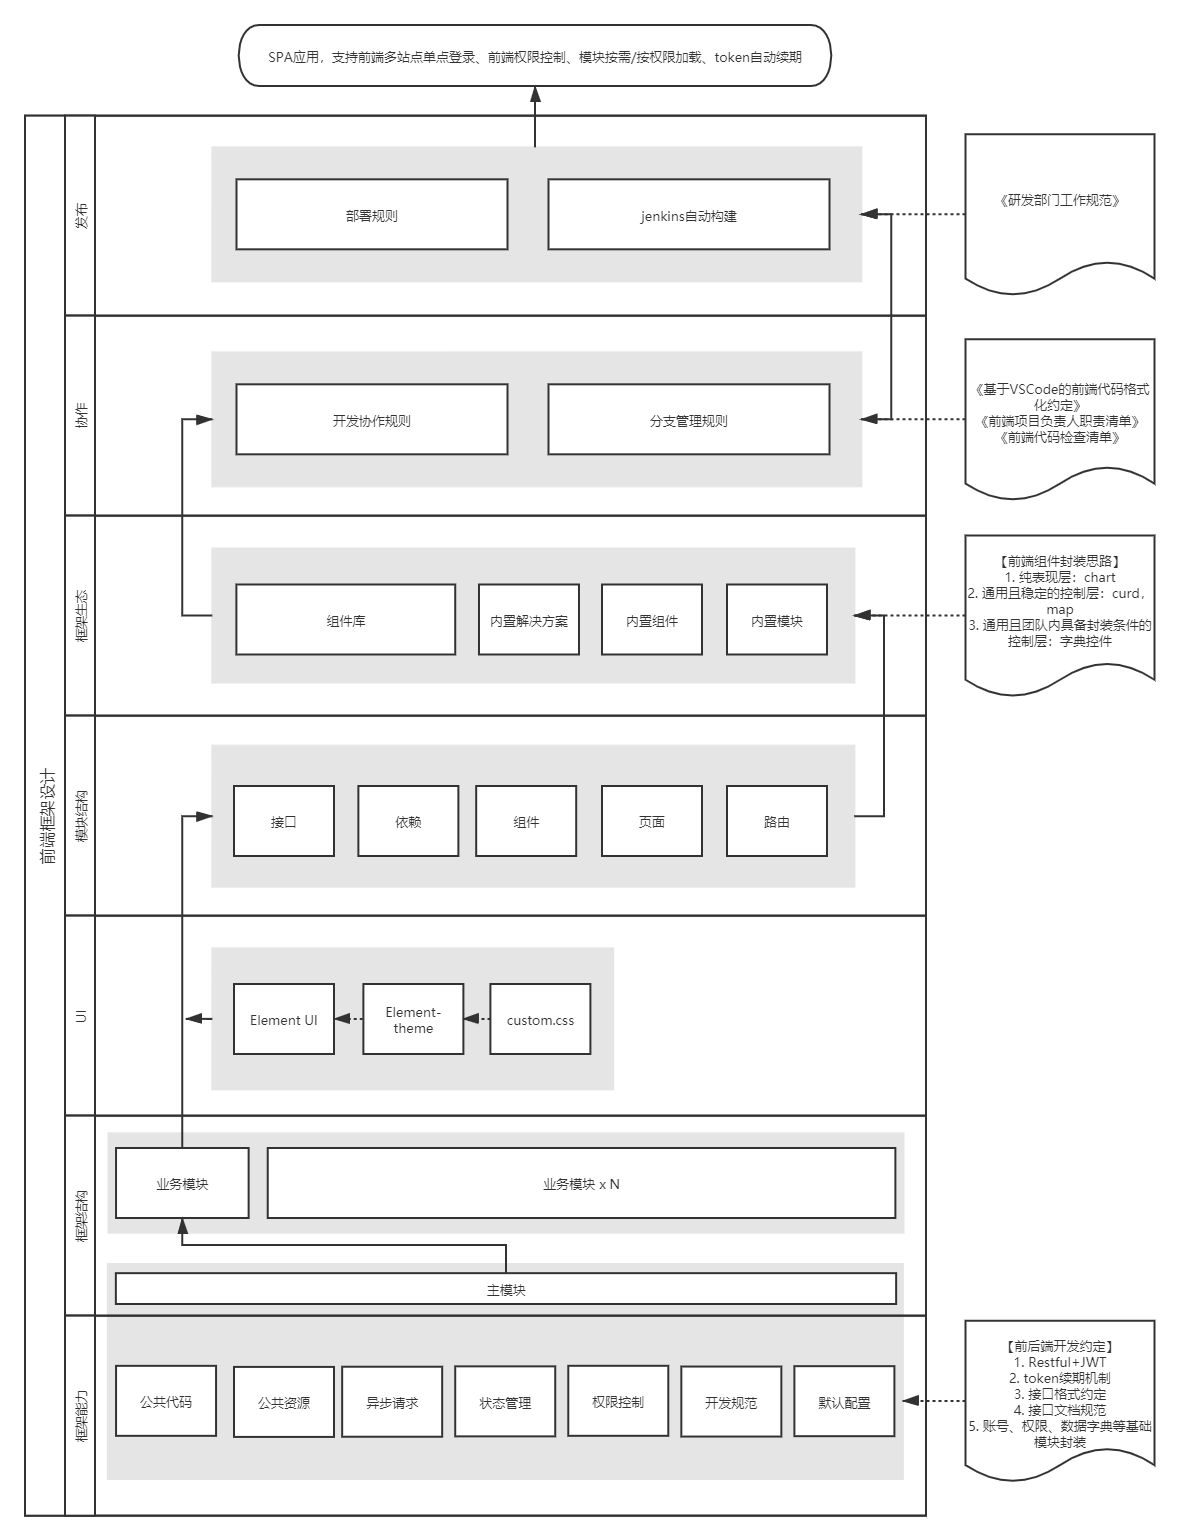
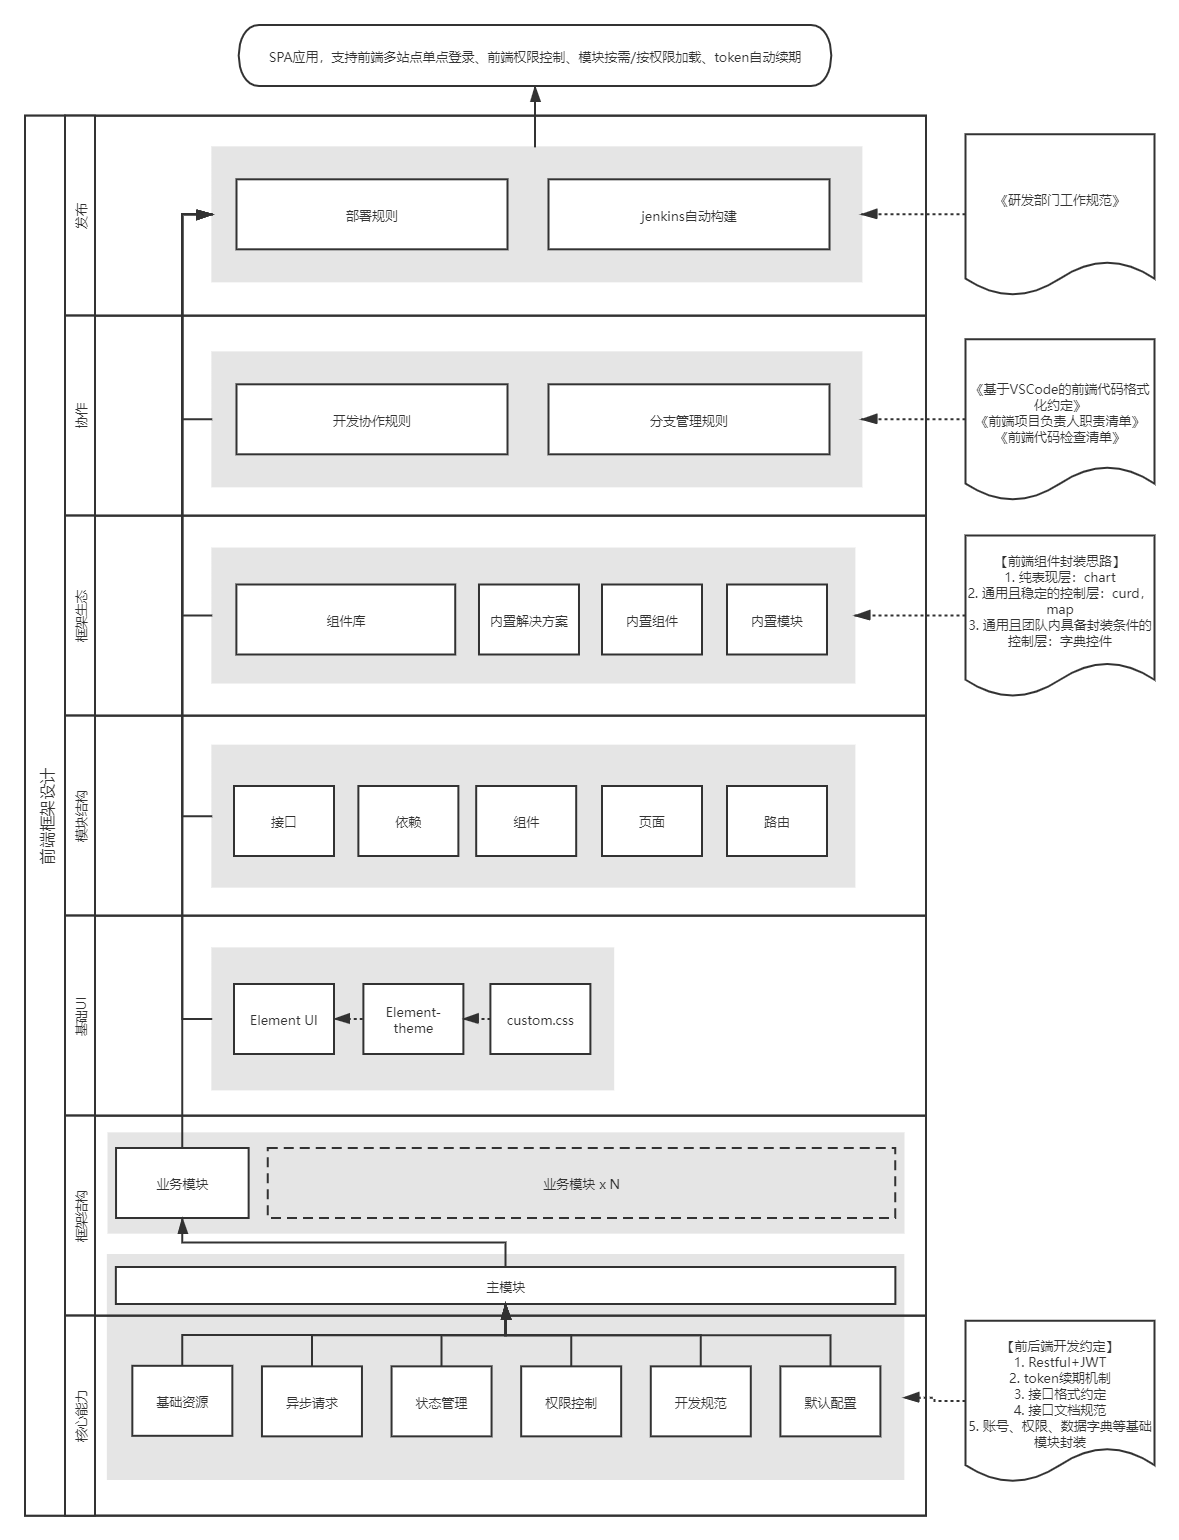
update

diff --git a/src/.vuepress/config.js b/src/.vuepress/config.js
@@ -1,6 +1,6 @@
 module.exports = {
   title: 'CuttingMat: Vue开发框架',
-  description: '面向大中型项目的Vue开发框架，助你的前端项目一臂之力',
+  description: '低成本提高前端项目质量底线，助你的Vue项目一臂之力',
   locales: {
     '/': {
       lang: 'zh-CN'
@@ -67,7 +67,6 @@ module.exports = {
           children: [
             '/guide/',                    // cutting mat
             '/guide/getting-started',     // 快速上手
-            '/guide/framework',           // 框架设计
             '/guide/framework-structure', // 目录结构
             '/guide/framework-code'       // 代码结构
           ]

diff --git a/src/guide/framework-structure.md b/src/guide/framework-structure.md
@@ -1,22 +1,24 @@
 # 目录结构
 
-目录结构是框架组织思路的体现，是非常重要的显性特征，往往会直接决定开发者的第一印象，但目录结构设计的成功与否，真正决定性的因素是其设计目标是否解决了开发过程中的组织痛点。
+目录结构是框架重要的显性特征，是项目组织思路的体现。是否解决开发过程中的组织问题，是框架目录结构设计成功与否的判断标准。
 
-CuttingMat的目录结构是为实现项目**按业务模块拆分**而设计的。
+CuttingMat的目录结构是为多人、多模块协同开发场景而设计的，用于实现前端项目**按业务模块拆分**。
 
-## 模块拆分思路
+## 设计思路
 
-经典Vue项目的`src/`目录简单的按资源类型拆分出了`components/`、`views/`、`assets/`这些文件夹，这种结构在大型项目中缺点明显，随着持续开发很容易产生大量的路由、`vue`文件、接口定义和静态资源，让这些文件夹规模剧增，给团队协作和代码组织带来极大挑战，因此大项目首先需要实现目录结构按业务模块拆分。
+经典Vue项目的`src/`目录简单的按资源类型拆分成`components/`、`views/`、`assets/`这些文件夹，这种结构在多模块并行的项目中缺点明显，随着持续开发很容易产生文件数量巨大的文件夹，开发过程经常要在这些大文件夹间切换，并在其中找到自己需要的文件，非常浪费时间而且容易犯错，因此多模块项目首先需要实现顶层目录按模块拆分。
 
-具体思路是，项目以“业务模块”为颗粒度拆分为多个模块文件夹，模块文件夹里包含开发所需的路由、页面、组件、静态资源等等。当开发一个业务模块时，开发者的注意力可以始终集中在模块文件夹内，只有涉及外部依赖时，才会接触到模块外文件。
+具体思路是，`src/`目录按“业务模块”拆分为多个模块文件夹，模块文件夹包含各自独立的路由、页面、组件、静态资源等，业务模块之间原则上互相隔离。开发一个业务模块时，开发者的注意力可以始终集中在模块文件夹内，只有涉及外部依赖时，才会接触到模块外的文件。
 
-模块间相互独立，甚至可以做到完全隔离，但模块最终要融合到项目整体中去，这就需要模块有一个明确、规则的对外表达，告诉别人我做了什么。路由可以完美充当这个角色，一个模块的路由就是一个模块的所有功能体现，模块的合并就是路由的合并。
+模块独立能很大程度上减少文件管理压力，解决开发关注度不集中问题，但模块最终要合并到项目整体中去才能运行，这就需要业务模块有一个明确的、规则的对外表达，告诉别人我做了什么。路由可以完美充当这个角色，一个模块的路由就是一个模块所有功能的体现，路由的合并就是模块的合并。
 
-以`system/`模块为例，这个模块的路由放在文件夹根目录的`system/index.js`里：
+因此很容易想到`主模块 + 业务模块 * N`这样一个项目结构，各个模块的路由在项目启动时都合并到主模块的路由文件中。这个结构除了实现多模块合并，还可以将主模块做为项目入口，实现一些项目级的公共逻辑或顶层页面框架。
+
+以`system/`模块为例，这个模块主要实现系统设置相关功能，它的路由文件是`system/index.js`：
 
 ``` javascript
 /**
- * 模块路由
+ * 系统设置模块路由
 */
 export default [{
     path: '/system',
@@ -49,7 +51,7 @@ export default [{
 }]
 ```
 
-就是输出了一段普通的路由，那怎样将他们合并到项目整体中呢，在主模块路由里（`@/main/index.js`）做路由合并就可以了：
+要将这个模块合并到主模块中，只要在主模块路由文件（`@/main/index.js`）引入并做为子路由数据合并就可以了：
 
 ``` javascript
 /**
@@ -71,37 +73,40 @@ export default [{
 
 ```
 
-可以看到主模块路由掌握着首页(`/`)路由，只要将其他模块路由作为子路由合并进来，模块就会被加载。这样一来，主模块路由就相当于项目的模块注册表，可以按需的某个模块注册到项目中来。
+可以看到主模块掌握着首页(`/`)路由，只要将业务模块作为子路由合并进来，业务模块就会被加载。这样一来，主模块路由就相当于项目的模块注册表，可以按需将某个模块注册到项目中来。
 
 基于以上思路，很容易实现按业务模块拆分的文件组织方式，在多人协同项目中可以更好的开发解耦，避免代码冲突，配合git分支策略也很容易实现业务模块分批提测、分批上线。
 
-## 整体目录结构
+## 具体实现
 
-框架的目录结构如下所示，可以看到`src/`里除了`main.js`之外就是一个个的文件夹，每个模块的代码、资源全部集中在一个文件夹内，各模块的开发关注点完全分离了：
+**框架整体目录结构**如下所示，可以看到`src/`里全部是一个个独立的模块文件夹（除了`/core`），每个模块的代码、资源全部集中在一个文件夹内，各模块的开发关注点完全分离了：
 
-``` bash
+``` js
+/**
+ * 框架整体目录结构
+ * */ 
 cutting-mat-project/
     |--public/ 
     |--src/
     |   |--__template/                  // 模块模板
-    |   |--core/                        // 框架文件
+    |   |--core/                        // 框架文件(非业务模块)
     |   |--main/                        // 主模块
     |   |--system/                      // 系统管理模块（内置业务模块）
-    |   |--user/                        // 个人中心模块（内置业务模块）
-    |   `--main.js                      // 入口文件
+    |   `--user/                        // 个人中心模块（内置业务模块）
     |--.browserslistrc              // 兼容性配置
     |--.eslintrc                    // 代码检查配置
     |--.gitignore                   // git忽略文件配置
     |--babel.config.js              // babel配置
     |--package.json                 // 项目描述文件
-    `--vue.config.js                // vue-cli配置
+    `--vue.config.js                // 项目配置文件
 ```
 
-## 模块目录结构
+**业务模块内部目录结构**实际上可以开发者随意发挥，只要保留模块路由文件`index.js`就可以了。但实际上为了便于模块间的资源复用，模块内部最好也统一目录结构，我们约定的模块目录结构如下：
 
-每个模块的内部目录结构实际上可以开发者随意发挥，只要保留模块路由文件`index.js`就可以了，但实际上为了便于模块间的资源引用，模块间最好统一目录结构，我们约定的模块结构如下：
-
-``` bash
+``` js
+/**
+ * 业务模块内部目录结构
+ * */ 
 cutting-mat-project/
     |--src/
         |--[Moudle Folder]/
@@ -121,30 +126,30 @@ cutting-mat-project/
             `--index.js                         // 模块路由
 ```
 
-## 框架核心目录结构
+与模块文件夹并列的`core/`文件夹，顾名思义这里是框架的核心功能实现，主要对应[框架设计](./framework)中的**核心层**及**UI层**。它目录结构：
 
-项目里还有一个`core/`文件夹，顾名思义这里是框架的核心功能实现，主要对应[【框架设计】](./framework)中的**核心层**及**通用UI层**。它目录结构：
-
-``` bash
+``` js
+/**
+ * 框架核心文件夹目录结构
+ * */ 
 cutting-mat-project/
     |--src/
         |--core/
-            |--element-theme/                   // Element主题
+            |--element-theme/                   // Element主题定制相关
             |   |--fonts/
-            |   |--img/
+            |   |--img/                         // 叠加自定义样式的依赖图片
             |   |--config.json
-            |   |--custom.css                   // 针对ElementUI的自定义样式
+            |   |--custom.css                   // 叠加自定义样式
             |   `--index.css
             |--font/                            // iconfont字体图标（global.css依赖）
-            |   |--img/ 
-            |   |--style.css 
-            |   `--util.js 
-            |--api.js                           // 全局请求配置
-            |--App.vue                          // vue根组件
+            |--widget-support/                  // 组件库依赖文件
+            |--App.vue                          // 项目根组件
             |--global.css                       // 全局样式（App.vue依赖）
-            |--index.js                         // 框架工具类
-            |--register.js                      // vue全局资源注册器
+            |--http.js                          // 全局请求配置
+            |--index.js                         // 核心功能（默认输出util.js）
+            |--main.js                          // 构建入口文件
+            |--register.js                      // 全局资源注册器
             |--router.js                        // 全局路由守卫
-            |--store.js                         // 简单store模式的状态管理
-            `--widget-amount-report.js          // 组件上报（组件库依赖）
+            |--store.js                         // 内置状态管理模块
+            `--util.js                          // 内置工具类
 ```

diff --git a/src/guide/README.md b/src/guide/README.md
@@ -1,38 +1,51 @@
 # CuttingMat
 
-CuttingMat 是基于 Vue2 的项目脚手架。
-
 ## 定位
 
-与通用UI库或组件库不同，CuttingMat希望在UI层的下层实现一个面向定制化场景的核心类库，在UI层的上层实现一个封装层，最终依托核心能力、通用UI、业务封装三层叠加，加速业务层的开发效率。
+CuttingMat（切割垫板）是基于Vue2.x的前端开发框架，与通用UI库（例如Element）不同，框架提供更底层、更全面的全链路前端开发服务。
 
-并且，CuttingMat还全程整合整个开发流程，对代码管理、质量管理、发布流程都做了默认支持，力求最大化的提升前端项目交付效率。
+CuttingMat的设计目标是用相对低的成本，提供相对高前端项目质量底线，解决初创前端团队普遍存在的开发质量参差不齐、代码架构杂乱无章等问题。
 
-## 特性
+## 框架设计
 
-- **稳定可靠**
+在相当多面向定制的前端团队中，直接基于Element开始一个前端项目仍然是惯常做法，前期的基础功能规划和代码组织设计往往比较薄弱。
 
-都是你最熟悉的技术栈：Vue2.x、Vue-Router、Axios、Element-UI
+前期工作如果没有质量保证，随着项目的深入开发以及开发者人数的增加，到了开发中期会出现很多普遍性问题。比如代码组织混乱、资源引用混乱、协作者二次造轮子、项目整体代码冗余、性能低下等等。这些问题都会二次加速前端项目的腐烂，后期会越来越难以扩展和维护。
 
-- **面向定制**
+应对这种情况，需要在UI层之下做好底层工具支持和代码组织设计；在UI层之上做好常用业务封装，依托底层、UI、封装三层叠加，加速上层业务开发效率。
 
-为定制型前端项目，提供最容易上手的项目模板、最容易扩展的代码组织、最容易使用的工具能力
+因此，CuttingMat将前端项目自底向上分为四层：核心层、UI层、封装层、业务层。
 
-- **简单灵活**
+### 核心层
 
-提供场景支持，而不是提供业务实现，保证开箱即用，而不是~~开箱先删~~
+主要输出两种能力：工具能力和组织能力，对应前端框架的核心功能、目录结构、代码结构。
 
-- **兼收并蓄**
+具体落实框架核心层时，除了做好前端核心能力的实现，还有很重要且容易被忽视的一大块内容是面向整个研发团队做全流程的支持和资源整合，比如代码管理、质量管理、发布流程等都可以跟前端框架做密切配合；面对后端团队可以做好前后端分离的相关约定、通用方案的框架级整合、基础功能模块的框架级配合等等，不能单独一方唱独角戏，要让前后端研发团队真正做到通力合作。
 
-无所不包，又不拘一格，承载开发、协同、联调、部署全开发流程
+### UI层
 
-- **专注高效**
+理论上可以做到可插拔，但目前的Vue生态并没有太多优秀的三方UI，因此CuttingMat直接基于Element-UI开发。
 
-每一个框架能力都历经真实项目迭代，将为你提供最得力的助攻
+对UI组件库的诉求始终是两点，组件够用和主题定制。在定制化项目中对组件库做样式自定义是大概率事件，所以前端框架应该对组件库的主题定制提供支持。除此之外基础组件够用就好，体积不宜过大。
 
-- **以终为始**
+### 封装层
 
-保持开放，保持迭代
+这一层是对UI层的延申，是否需要这一层视业务情况而定，实践中通常体现为框架内置组件、内置模块、通用场景解决方案、内部组件库等。
+
+CuttingMat重点面向定制项目，所以框架只内置少量业务无关的组件，更多与业务关系紧密的功能，均以组件库的形式做封装；
+
+### 业务层
+
+就是基于以上三层对业务逻辑的具体实现，以上三层是否有价值就体现在能否让业务层开发提效降本。
+
+综上，框架整体的设计思路如下：
+
+![架构图](./img/CuttingMat.png)
+（右键在新标签中打开，查看高清大图）
+
+::: tip 目录结构
+前往[目录结构](./framework-structure)了解更多
+:::
 
 ## 社区
 

diff --git a/src/README.md b/src/README.md
@@ -2,23 +2,23 @@
 home: true
 heroImage: /logo.png
 heroText: CuttingMat
-tagline: 面向大中型项目的Vue开发框架，助你的前端项目一臂之力
+tagline: 低成本，高底线，助你的Vue项目一臂之力
 actionText: 开始使用 →
 actionLink: /guide/getting-started/
 
 features:
-  - title: 稳定可靠
+  - title: 简单可靠
     details: 都是你最熟悉的技术栈：Vue2.x、Vue-Router、Axios、Element-UI
   - title: 面向定制
-    details: 为定制型前端项目，提供最容易上手的项目模板、最容易扩展的代码组织、最容易使用的工具能力
-  - title: 简单灵活
-    details: 提供场景支持，而不是提供业务实现，保证开箱即用，而不是~~开箱先删~~
-  - title: 兼收并蓄
-    details: 无所不包，又不拘一格，承载开发、协同、联调、部署全开发流程
-  - title: 专注高效
-    details: 每一个框架能力都历经真实项目迭代，将为你提供最得力的助攻
+    details: 为定制型前端项目，提供最通用的项目模板、最容易上手的代码组织、最常用的工具能力
+  - title: 开箱即用
+    details: 提供框架支持，而不是提供业务实现，保证开箱即用，而不是~~开箱先删~~
+  - title: 全流程支持
+    details: 着眼整个研发流程，承载设计、前端协同、前后端联调、运维部署等各个环节
+  - title: 最佳实践
+    details: 每一个设计细节都历经真实项目锤炼，留下的都是最好的
   - title: 以终为始
-    details: 保持开放，保持迭代
+    details: 从实战中来，到实战中去，保持开放，保持迭代
 
 footer: 遵循 MIT 开源协议 Made by @tower1229(refined-x.com)
 

diff --git a/src/guide/getting-started.md b/src/guide/getting-started.md
@@ -29,9 +29,9 @@ git clone https://github.com/cutting-mat/template-element-ui.git
 安装npm依赖，并运行开发服务。
 
 ``` bash
-npm i
-npm run serve
-npm run build
+npm i               // 安装依赖
+npm run serve       // 启动开发服务
+npm run build       // 构建生产环境代码
 ```
 
 ## 字体图标
@@ -50,6 +50,6 @@ Element-UI自定义主题文件目录：`@/core/element-theme/`
 
 全局开发配置和构建配置都在`/vue.config.js`中。
 
-::: tip 框架能力
-前往[【指南】](/guide/framework-core)近一步了解**CuttingMat**
+::: tip 框架设计
+前往[【指南】](/guide/)近一步了解**CuttingMat**
 :::
